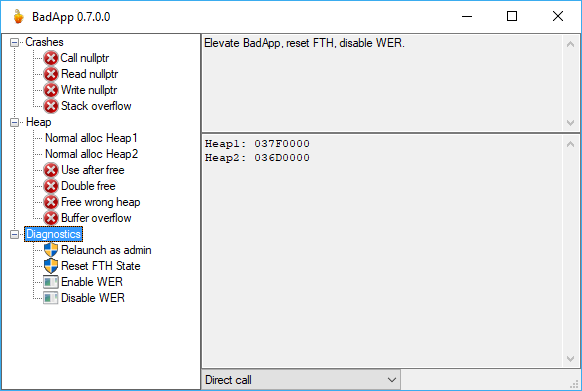
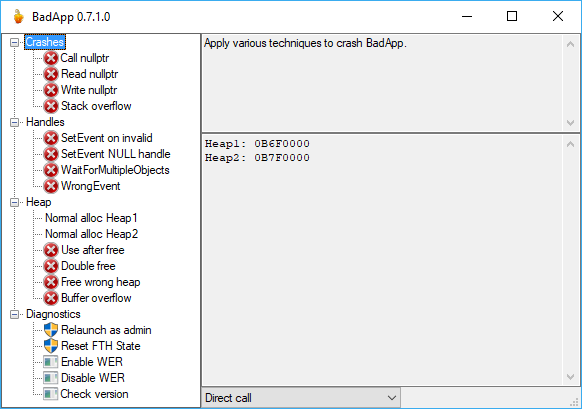
Documentation update

Changed region(s): [[0.0, 0.0307, 1.0, 0.9821], [0.3402, 0.3069, 1.0, 0.4297], [0.3402, 0.9207, 1.0, 1.0]]

diff --git a/docs/index.md b/docs/index.md
@@ -19,6 +19,11 @@ Combining all kinds of common application bugs in a simple application ensures t
     * Crash by reading from a nullptr
     * Crash by writing to a nullptr
     * Crash by causing a stack overflow
+* Handle bugs:
+    * Call SetEvent on an invalid handle
+    * Call SetEvent on a NULL handle
+    * WaitForMultipleObjects with no handles
+    * Call SetEvent on a Semaphore
 * Heap bugs:
     * Modify memory after it has been freed (Use after free)
     * Free memory twice (Double free)
